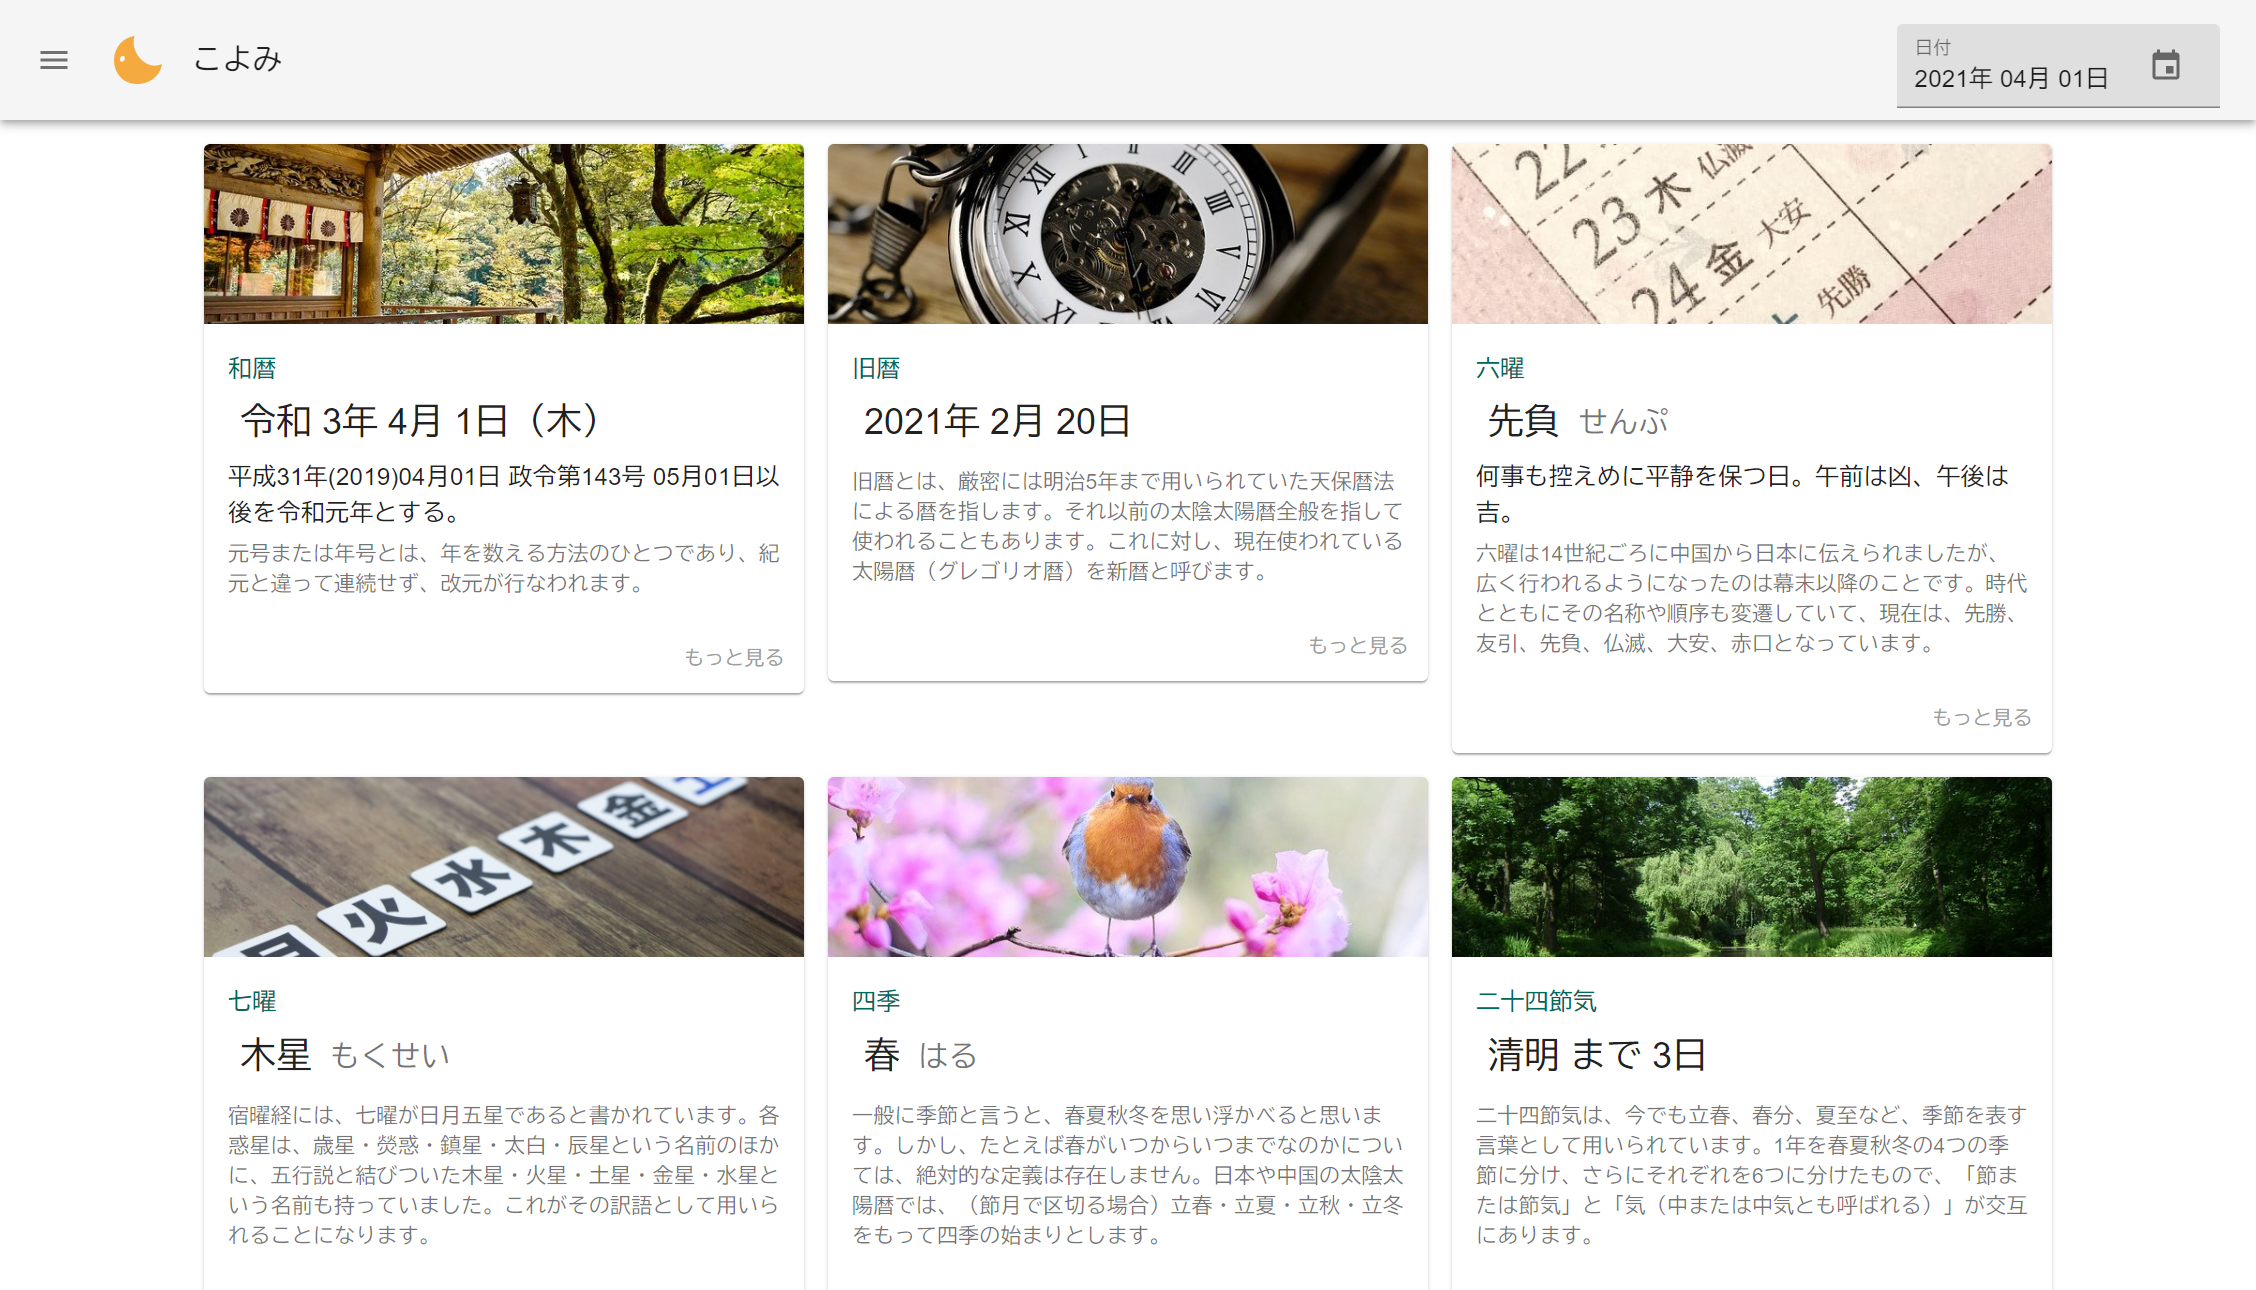
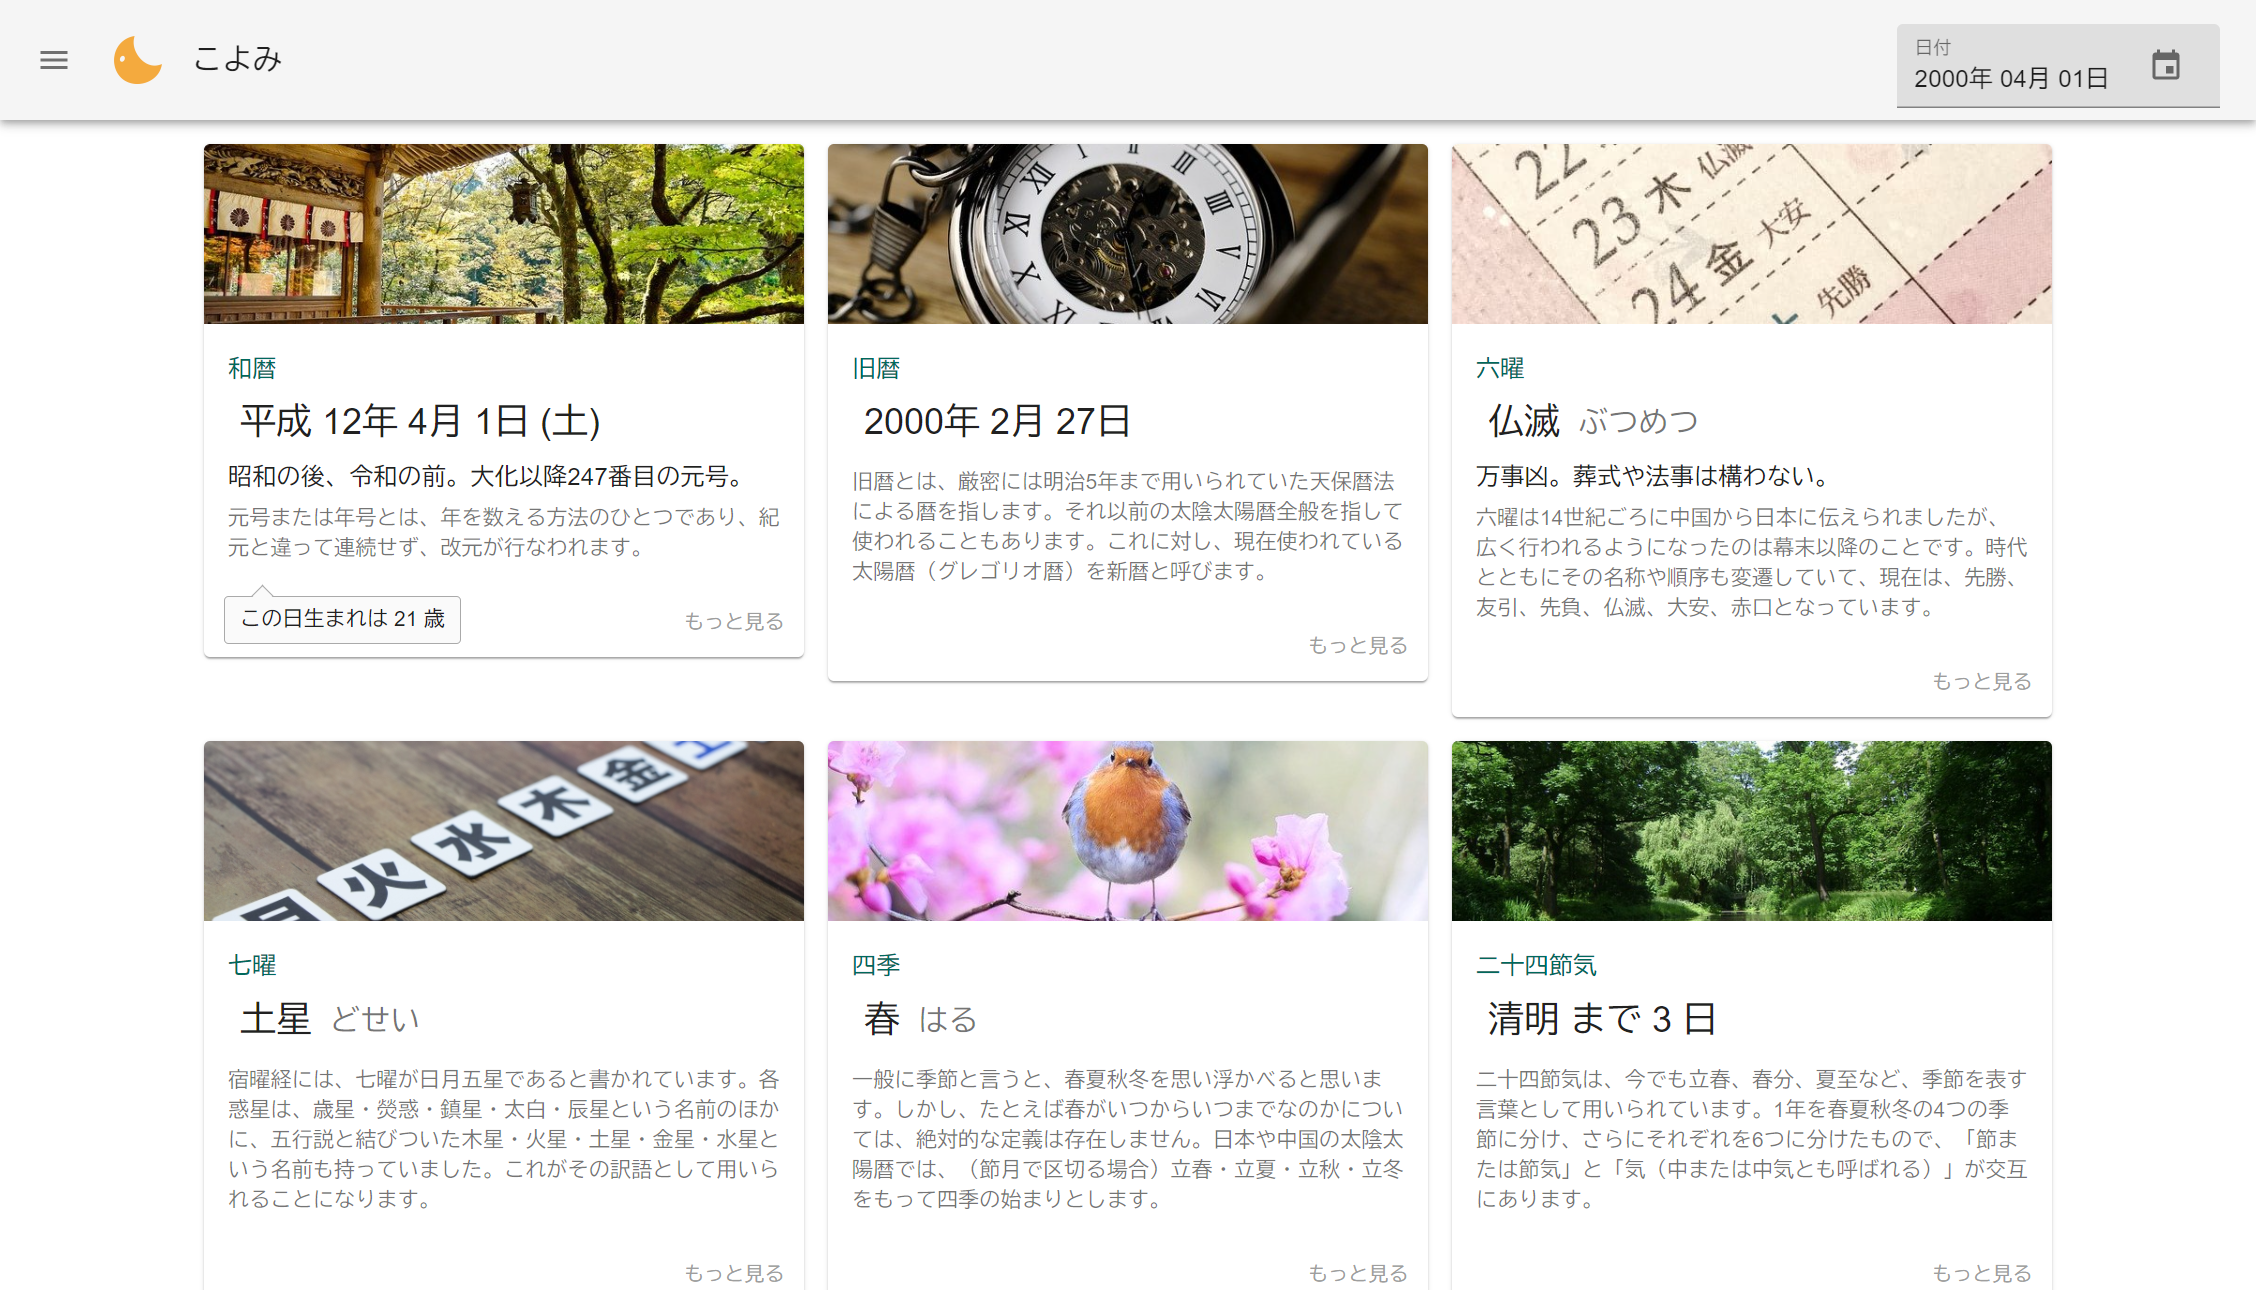
Update README.md

diff --git a/README.md b/README.md
@@ -18,14 +18,15 @@
 ### 日付の指定
 
 表示可能な日付の範囲は 1868-01-01 から 2099-12-31 までとなります。  
-なお、1887 年以前を指定した場合、東京地方時を日本標準時へ置き換えて計算を行うため、厳密な値とは異なる結果となります。
+なお、1887 年以前を指定した場合、東京地方時を日本標準時へ置き換えて計算を行うため、厳密な値とは異なる可能性があります。
 
 日付は URL で直接指定することもできます。  
 https://kawasawa.github.io/koyomi/2000-01-01
 
-### 表示される暦注
+### 表示される情報
 
 - 和暦
+  - 年齢
 - 旧暦
 - 六曜
 - 七曜
